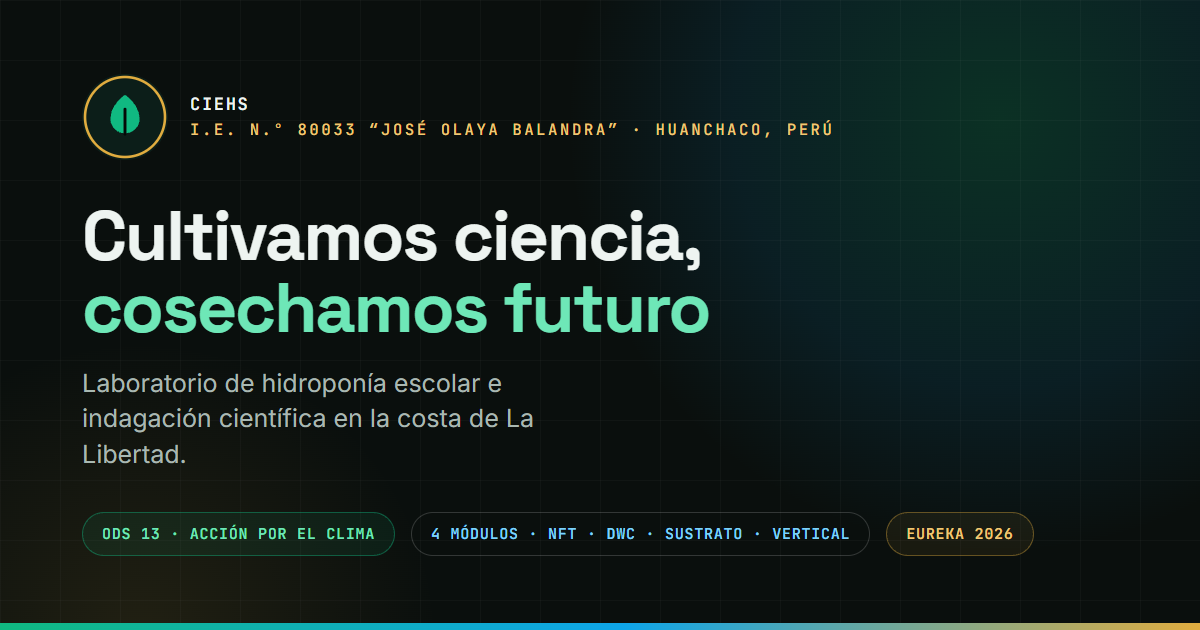
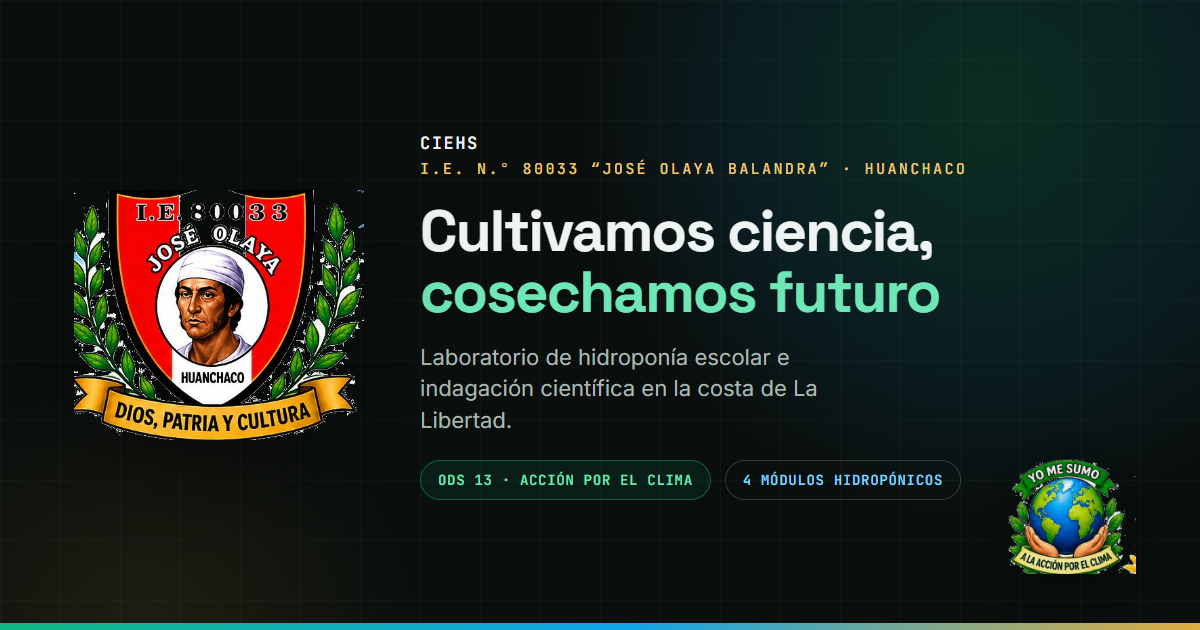
feat(identidad): escudo institucional, sello del clima y mural real
Sustituye la marca vectorial provisional por la identidad institucional
real, extraida del mural que aporto la coordinacion.

Extraccion
- Escudo de la I.E. N.° 80033 y sello "Yo me sumo a la Accion por el
  Clima" recortados del mural y con el fondo hecho transparente.
- La transparencia se aplica por inundacion DESDE LOS BORDES hacia
  dentro, no borrando todo pixel blanco: asi se conservan los blancos
  interiores del logo (la vincha de Jose Olaya, el campo blanco del
  escudo), que un umbral simple habria agujereado. Verificado: 22 % y
  34 % de pixeles transparentes con el centro intacto.

Integracion
- Escudo en la marca del encabezado, en la tarjeta del hero y en el pie.
  El PNG transparente funciona sobre el fondo oscuro sin panel blanco
  detras, que habria roto la continuidad del tema.
- El sello del clima acompana al escudo en el hero.
- El rotulo deja de decir "marcador de posicion": ahora es el escudo
  institucional oficial.
- Iconos regenerados desde el escudo (32, 180 y 512 px), centrados sobre
  lienzo cuadrado para no deformar un escudo apaisado. Se retira
  favicon.svg, que era la marca provisional.
- Tarjeta social rehecha con el escudo y el sello reales.

Mural
- La ilustracion SVG se sustituye por el mural real, reescalado a 1280 px
  y recomprimido: 689 KB -> 361 KB.
- Los cuatro hotspots se reposicionan sobre las zonas que ahora nombran:
  la bandeja hidroponica, las raices que sostiene la estudiante, los
  bloques de ODS y el escudo.
[…]

diff --git a/index.html b/index.html
@@ -13,9 +13,9 @@
 
 <!-- Iconos. La marca es el marcador de posición del portal: sustituir por el
      escudo institucional oficial cuando esté disponible, sin modificar su diseño. -->
-<link rel="icon" href="/assets/img/favicon.svg" type="image/svg+xml">
+<link rel="icon" type="image/png" sizes="32x32" href="/assets/img/icon-32.png">
+<link rel="icon" type="image/png" sizes="512x512" href="/assets/img/icon-512.png">
 <link rel="apple-touch-icon" href="/assets/img/icon-180.png">
-<link rel="mask-icon" href="/assets/img/favicon.svg" color="#10b981">
 
 <!-- Tarjeta al compartir por WhatsApp, Facebook y X, que es como circula
      realmente el enlace en la comunidad educativa. -->
@@ -729,6 +729,32 @@
   .qr-toolbar{ display:flex; gap:12px; flex-wrap:wrap; align-items:center; margin-top:24px; }
   .qr-toolbar .qr-hint{ font-size:12.5px; color:var(--ink-mute); font-family:var(--font-mono); }
   .qr-print-head{ display:none; }
+
+  /* ---- identidad institucional ----
+     El escudo es apaisado y a color pleno. Sobre el fondo oscuro del portal
+     funciona tal cual gracias al fondo transparente del PNG; no lleva panel
+     blanco detras para no romper la continuidad del tema. */
+  img.brand-badge{
+    width:auto; height:38px; flex:none; object-fit:contain;
+    filter:drop-shadow(0 4px 12px rgba(0,0,0,.55));
+  }
+  footer .fbrand img{
+    width:auto; height:34px; flex:none; object-fit:contain;
+    filter:drop-shadow(0 4px 12px rgba(0,0,0,.5));
+  }
+  .hero-escudo{
+    display:block; width:100%; max-width:250px; height:auto; margin:0 auto;
+    filter:drop-shadow(0 20px 44px rgba(0,0,0,.6));
+  }
+  .hero-sello{
+    display:block; width:96px; height:auto; margin:18px auto 0;
+    opacity:.95; filter:drop-shadow(0 10px 24px rgba(0,0,0,.5));
+  }
+  @media (max-width:760px){
+    .hero-escudo{ max-width:190px; }
+    .hero-sello{ width:78px; }
+    img.brand-badge{ height:32px; }
+  }
   .viz-note{
     margin-top:20px; padding-top:14px; border-top:1px dashed var(--chart-grid);
     font-size:12.5px; line-height:1.65; color:var(--chart-ink-2); max-width:76ch;
@@ -960,7 +986,18 @@
   }
   @media (max-width:900px){ .mural-panel{ grid-template-columns:1fr; } }
   .mural-art{ position:relative; min-height:360px; background:linear-gradient(160deg, rgba(16,185,129,0.06), rgba(10,15,13,0.4)); }
-  .mural-art svg{ width:100%; height:100%; display:block; }
+  .mural-art{ overflow:hidden; }
+  .mural-img{
+    width:100%; height:100%; display:block; object-fit:cover; object-position:center;
+    min-height:360px;
+  }
+  /* En movil la imagen es mas baja que el min-height del contenedor: sin esto
+     el contenedor se queda a 360px, la imagen ocupa menos y los hotspots, que
+     se posicionan en % sobre el contenedor, caen fuera del mural. */
+  @media (max-width:820px){
+    .mural-art{ min-height:0; }
+    .mural-img{ min-height:0; aspect-ratio:1280/853; height:auto; }
+  }
   .hotspot{
     position:absolute; width:36px; height:36px; border-radius:50%;
     background:rgba(240,200,118,0.92); border:2px solid var(--sun-300);
@@ -1240,12 +1277,8 @@
   </div>
   <nav class="nav wrap">
     <button type="button" class="brand" data-route="inicio">
-      <svg class="brand-badge" viewBox="0 0 100 100" fill="none" aria-hidden="true">
-        <circle cx="50" cy="50" r="47" fill="var(--ocean-700)"/>
-        <circle cx="50" cy="50" r="47" stroke="var(--sun-500)" stroke-width="2"/>
-        <path d="M50 24c11 8 17 18 17 28 0 10-8 17-17 17s-17-7-17-17c0-10 6-20 17-28Z" fill="var(--leaf-500)"/>
-        <path d="M50 41v28" stroke="var(--ocean-900)" stroke-width="2" stroke-linecap="round"/>
-      </svg>
+      <img class="brand-badge" src="/assets/img/escudo-ie80033.png" width="428" height="369"
+           alt="Escudo de la I.E. N.° 80033 José Olaya Balandra" decoding="async">
       <span class="brand-text">
         <b>CIEHS</b>
         <span>I.E. N.° 80033 José Olaya Balandra · Huanchaco</span>
@@ -1312,13 +1345,11 @@
         </div>
       </div>
       <div class="hero-badge-card">
-        <svg viewBox="0 0 120 120" aria-hidden="true">
-          <circle cx="60" cy="60" r="56" fill="none" stroke="var(--sun-300)" stroke-width="1.4" stroke-dasharray="3 5"/>
-          <circle cx="60" cy="60" r="46" fill="rgba(242,239,225,0.05)"/>
-          <path d="M60 30c13 9 20 21 20 32 0 12-9 21-20 21s-20-9-20-21c0-11 7-23 20-32Z" fill="var(--leaf-300)" opacity="0.85"/>
-          <text x="60" y="100" text-anchor="middle" font-family="JetBrains Mono, monospace" font-size="7" fill="var(--sun-300)">I.E. 80033 · JOSÉ OLAYA</text>
-        </svg>
-        <p class="cap">MARCA INSTITUCIONAL — VERSIÓN VECTORIAL<br>paleta oficial #10b981 · #059669 · #0284c7 · sustituible por el escudo institucional</p>
+        <img class="hero-escudo" src="/assets/img/escudo-ie80033.png" width="428" height="369"
+             alt="Escudo institucional de la I.E. N.° 80033 José Olaya Balandra — Huanchaco" decoding="async">
+        <img class="hero-sello" src="/assets/img/sello-accion-clima.png" width="306" height="284"
+             alt="Sello: Yo me sumo a la Acción por el Clima" loading="lazy" decoding="async">
+        <p class="cap">ESCUDO INSTITUCIONAL OFICIAL<br>I.E. N.° 80033 “José Olaya Balandra” · Huanchaco</p>
         <p class="lema">"Dios, Patria y Cultura"</p>
       </div>
     </div>
@@ -2836,45 +2867,14 @@
 
       <div class="mural-panel">
         <div class="mural-art">
-          <svg viewBox="0 0 600 400" preserveAspectRatio="xMidYMid slice" aria-hidden="true">
-            <defs>
-              <radialGradient id="muralSun" cx="50%" cy="50%" r="50%">
-                <stop offset="0%" stop-color="var(--sun-300)" stop-opacity="0.9"/>
-                <stop offset="100%" stop-color="var(--sun-300)" stop-opacity="0"/>
-              </radialGradient>
-            </defs>
-            <circle cx="90" cy="80" r="70" fill="url(#muralSun)"/>
-            <path d="M20 70c15-12 35-12 50 0M30 90c12-9 28-9 40 0" stroke="var(--sun-300)" stroke-width="2" fill="none" stroke-linecap="round" opacity="0.6"/>
-            <path d="M470 60c14 6 24 18 24 32 0 16-13 28-30 28M494 92c10 4 16 12 16 20" stroke="var(--on-ocean-soft)" stroke-width="2.4" fill="none" stroke-linecap="round" opacity="0.7"/>
-            <circle cx="464" cy="58" r="4" fill="var(--on-ocean-soft)" opacity="0.7"/>
-            <g opacity="0.9">
-              <path d="M300 340c-6-70 10-120 10-150" stroke="var(--leaf-500)" stroke-width="4" fill="none" stroke-linecap="round"/>
-              <path d="M310 200c-30-6-46-30-46-30s34-8 54 12c10 10 12 24-8 18Z" fill="var(--leaf-500)"/>
-              <path d="M310 230c30-10 42-34 42-34s-34-10-56 8c-12 10-14 26 14 26Z" fill="var(--leaf-300)"/>
-              <path d="M310 260c-26 0-40-20-40-20s30-14 50 0c10 8 10 20-10 20Z" fill="var(--leaf-500)"/>
-            </g>
-            <g stroke="var(--on-ocean-soft)" stroke-width="1.4" opacity="0.55">
-              <circle cx="120" cy="330" r="46" fill="none"/>
-              <circle cx="128" cy="322" r="4" fill="var(--sun-500)" opacity="0.9"/>
-              <circle cx="150" cy="304" r="3.2" fill="var(--leaf-300)" opacity="0.9"/>
-              <circle cx="160" cy="330" r="3.2" fill="var(--series-1)" opacity="0.9"/>
-              <circle cx="150" cy="356" r="3.2" fill="var(--sun-300)" opacity="0.9"/>
-              <circle cx="120" cy="368" r="3.2" fill="var(--leaf-500)" opacity="0.9"/>
-              <circle cx="90" cy="356" r="3.2" fill="var(--series-2)" opacity="0.9"/>
-              <circle cx="80" cy="330" r="3.2" fill="var(--leaf-300)" opacity="0.9"/>
-              <circle cx="90" cy="304" r="3.2" fill="var(--sun-500)" opacity="0.9"/>
-            </g>
-            <g stroke="var(--sun-500)" stroke-width="1.6" opacity="0.8">
-              <circle cx="500" cy="330" r="42" fill="none"/>
-              <path d="M478 330a22 22 0 1 1 44 0 22 22 0 0 1-44 0Z" fill="none" stroke-dasharray="4 4"/>
-            </g>
-            <text x="500" y="335" text-anchor="middle" font-family="JetBrains Mono, monospace" font-size="11" fill="var(--sun-300)" font-weight="700">80033</text>
-          </svg>
+          <img class="mural-img" src="/assets/img/mural-ciehs.jpg" width="1280" height="853"
+               alt="Mural del CIEHS: el escudo de la I.E. 80033 José Olaya Balandra rodeado del reto Acción por el Clima, los Objetivos de Desarrollo Sostenible, un módulo hidropónico con lechugas, el caballito de totora y el pingüino de Humboldt de Huanchaco."
+               loading="lazy" decoding="async">
 
-          <button type="button" class="hotspot is-active" style="left:16%; top:82%;" data-hotspot="agua" aria-label="El ciclo del agua en hidroponía">1</button>
-          <button type="button" class="hotspot" style="left:78%; top:20%;" data-hotspot="fito">2</button>
-          <button type="button" class="hotspot" style="left:20%; top:38%;" data-hotspot="ods">3</button>
-          <button type="button" class="hotspot" style="left:83%; top:82%;" data-hotspot="identidad">4</button>
+          <button type="button" class="hotspot is-active" style="left:42%; top:80%;" data-hotspot="agua" aria-label="1 · El ciclo del agua en hidroponía">1</button>
+          <button type="button" class="hotspot" style="left:60%; top:70%;" data-hotspot="fito" aria-label="2 · Fitohormonas y enraizamiento">2</button>
+          <button type="button" class="hotspot" style="left:88%; top:34%;" data-hotspot="ods" aria-label="3 · Los Objetivos de Desarrollo Sostenible">3</button>
+          <button type="button" class="hotspot" style="left:49%; top:38%;" data-hotspot="identidad" aria-label="4 · Nuestra identidad institucional">4</button>
         </div>
 
         <div class="mural-info">
@@ -3045,10 +3045,8 @@
   <div class="wrap">
     <div class="footer-row">
       <div class="fbrand">
-        <svg viewBox="0 0 100 100" fill="none" aria-hidden="true">
-          <circle cx="50" cy="50" r="47" fill="var(--ocean-700)"/>
-          <path d="M50 24c11 8 17 18 17 28 0 10-8 17-17 17s-17-7-17-17c0-10 6-20 17-28Z" fill="var(--leaf-500)"/>
-        </svg>
+        <img src="/assets/img/escudo-ie80033.png" width="428" height="369"
+             alt="Escudo de la I.E. N.° 80033 José Olaya Balandra" loading="lazy" decoding="async">
         <b>CIEHS · I.E. N.° 80033 José Olaya Balandra, Huanchaco</b>
       </div>
       <ul class="flinks">
